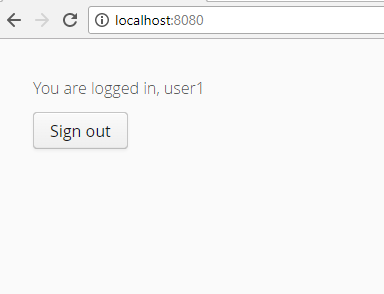
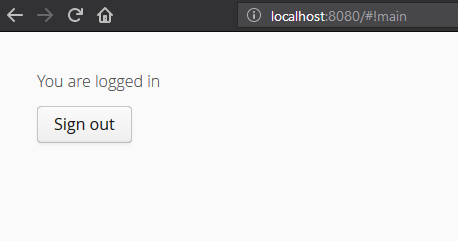
Prepare for merging

Changed region(s): [[0.0, 0.0, 1.0, 0.1452], [0.0625, 0.2614, 0.5312, 0.5519], [0.0938, 0.5809, 0.2812, 0.61]]

diff --git a/src/main/java/org/si/simple_login/vaadin/views/LoginView.java b/src/main/java/org/si/simple_login/vaadin/views/LoginView.java
@@ -11,11 +11,11 @@ import org.springframework.beans.factory.annotation.Autowired;
 import org.springframework.stereotype.Component;
 
 import static org.si.simple_login.vaadin.PagePaths.MAIN;
-import static org.si.simple_login.vaadin.PagePaths.SIGNUP;
+import static org.si.simple_login.vaadin.PagePaths.SIGN_UP;
 import static org.si.simple_login.vaadin.ViewNavigator.navigator;
 
 @Component
-public class LogInView extends CustomComponent implements View {
+public class LoginView extends CustomComponent implements View {
 
     private UserAuthenticationDAO userAuthenticationDAOSQL;
 
@@ -33,12 +33,12 @@ public class LogInView extends CustomComponent implements View {
         this.userAuthenticationDAOSQL = userAuthenticationDAOSQL;
     }
 
-    public LogInView(){
+    public LoginView(){
 
         // Initialize and arrange layout components
         HorizontalLayout signUpLayout = new HorizontalLayout(newUserLabel);
         FormLayout logInFormLayout = new FormLayout(userNameTextField, passwordTextField,
-                signUpLayout, signInButton);
+                                                    signUpLayout, signInButton);
         VerticalLayout logInPageLayout = new VerticalLayout(logInFormLayout);
         logInFormLayout.setSizeUndefined();
         logInPageLayout.setSizeFull();
@@ -51,18 +51,22 @@ public class LogInView extends CustomComponent implements View {
 
         // Set up button and link
         signInButton.setClickShortcut(ShortcutAction.KeyCode.ENTER);
-        signUpLayout.addLayoutClickListener(e -> navigator.navigateTo(SIGNUP.getPagePath()));
+        signUpLayout.addLayoutClickListener(e -> navigator.navigateTo(SIGN_UP.getPagePath()));
 
         setCompositionRoot(logInPageLayout);
     }
 
     /**
-     * If the user has valid credentials, show the (mock) main page; else, show the error message
+     * If the user has valid credentials, show the main page; else, show the error message
      * @param userRequest User object encapsulating the input form data, namely user_name and password
      */
     private void signIn(User userRequest){
 
         if(userAuthenticationDAOSQL.checkAuthentication(userRequest)){
+
+            // Clear the text fields before redirecting
+            userNameTextField.setValue("");
+            passwordTextField.setValue("");
 
             navigator.navigateTo(MAIN.getPagePath());
         } else{

diff --git a/src/main/java/org/si/simple_login/vaadin/ViewNavigator.java b/src/main/java/org/si/simple_login/vaadin/ViewNavigator.java
@@ -9,22 +9,34 @@ import org.springframework.beans.factory.annotation.Autowired;
 
 import static org.si.simple_login.vaadin.PagePaths.LOGIN;
 import static org.si.simple_login.vaadin.PagePaths.MAIN;
-import static org.si.simple_login.vaadin.PagePaths.SIGNUP;
+import static org.si.simple_login.vaadin.PagePaths.SIGN_UP;
+
+/**
+ * The basic UI design of this app and so the related backend functionalities are
+ * based on the Vaadin tutorial by Alejandro Duarte
+ * (https://vaadin.com/blog/implementing-remember-me-with-vaadin). More generally,
+ * my underlying background knowledge of Vaadin apps owes to another tutorial by
+ * the same author (https://vaadin.com/blog/building-a-web-ui-for-mysql-databases-in-plain-java-).
+ * More detailed orientation on the use of Vaadin binders was gained from the tutorial by Kirill Bulatov
+ * (https://vaadin.com/blog/15624687). The page navigation is based on the official
+ * Vaadin documentation (https://vaadin.com/docs/v8/framework/advanced/advanced-navigator.html#advanced.navigator
+ * https://vaadin.com/docs/v8/framework/application/application-architecture.html).
+ */
 
 @SpringUI
 public class ViewNavigator extends UI {
 
     public static SpringNavigator navigator;
-    private final View logInView;
+    private final View loginView;
     private final View signUpView;
     private final View mainView;
 
     @Autowired
-    public ViewNavigator(SpringNavigator navigator, View logInView,
+    public ViewNavigator(SpringNavigator navigator, View loginView,
                          View signUpView, View mainView){
 
         ViewNavigator.navigator = navigator;
-        this.logInView = logInView;
+        this.loginView = loginView;
         this.signUpView = signUpView;
         this.mainView = mainView;
     }
@@ -32,8 +44,8 @@ public class ViewNavigator extends UI {
     public void init(VaadinRequest request){
 
         navigator.init(this, this);
-        navigator.addView(LOGIN.getPagePath(), logInView);
-        navigator.addView(SIGNUP.getPagePath(), signUpView);
+        navigator.addView(LOGIN.getPagePath(), loginView);
+        navigator.addView(SIGN_UP.getPagePath(), signUpView);
         navigator.addView(MAIN.getPagePath(), mainView);
     }
 }

diff --git a/src/main/java/org/si/simple_login/vaadin/views/SignUpView.java b/src/main/java/org/si/simple_login/vaadin/views/SignUpView.java
@@ -46,8 +46,11 @@ public class SignUpView extends CustomComponent implements View {
         userBinder.bind(passwordTextField, User::getPassword, User::setPassword);
         userBinder.setBean(user);
 
-        // Set up button
+        // Set up button and fields
         signUpButton.setClickShortcut(ShortcutAction.KeyCode.ENTER);
+        userNameTextField.setRequiredIndicatorVisible(true);
+        emailTextField.setRequiredIndicatorVisible(true);
+        passwordTextField.setRequiredIndicatorVisible(true);
 
         setCompositionRoot(signUpPageLayout);
     }

diff --git a/src/main/java/org/si/simple_login/vaadin/views/MainView.java b/src/main/java/org/si/simple_login/vaadin/views/MainView.java
@@ -13,7 +13,7 @@ import static org.si.simple_login.vaadin.ViewNavigator.navigator;
 @Component
 public class MainView extends CustomComponent implements View {
 
-    private Label label = new Label("You are logged in.");
+    private Label label = new Label("You are logged in");
     private Button signOut = new Button("Sign out", e -> navigator.navigateTo(LOGIN.getPagePath()));
 
     public MainView(){

diff --git a/src/main/java/org/si/simple_login/config/AuthenticationConfig.java b/src/main/java/org/si/simple_login/config/AuthenticationConfig.java
@@ -56,7 +56,7 @@ public class AuthenticationConfig extends WebSecurityConfigurerAdapter {
     }
 
     /**
-     * Paths are not secured for now as there is only one page, namely login.
+     * TODO: secure the main page
      * @param httpSecurity
      * @throws Exception
      */

diff --git a/src/main/java/org/si/simple_login/vaadin/PagePaths.java b/src/main/java/org/si/simple_login/vaadin/PagePaths.java
@@ -3,7 +3,7 @@ package org.si.simple_login.vaadin;
 public enum PagePaths {
 
     LOGIN(""),
-    SIGNUP("sign_up"),
+    SIGN_UP("sign_up"),
     MAIN("main");
 
     private String pagePath;

diff --git a/README.md b/README.md
@@ -10,7 +10,7 @@
 
 ### Preliminary Remarks
 
-This small application shows password hashing by BCrypt within the framework of Spring Boot.<br>
+This small application shows password hashing by Spring BCrypt within the framework of Spring Boot.<br>
 The design and implementation owe to several tutorials and other sources as acknowledged<br>
 in the references section below. In particular, if you are interested in building a similar<br>
 application by yourself, I would suggest starting with [Alejandro's introductory Vaadin tutorial](https://vaadin.com/blog/building-a-web-ui-for-mysql-databases-in-plain-java-)<br>
@@ -52,6 +52,10 @@ https://vaadin.com/blog/building-a-web-ui-for-mysql-databases-in-plain-java-<br>
 
 For more detailed introduction on Vaadin Binder, Kirill Bulatov's tutorial:<br>
 https://vaadin.com/blog/15624687<br>
+
+For use of page navigation in Vaadin, the official documentation:<br>
+https://vaadin.com/docs/v8/framework/application/application-architecture.html<br>
+https://vaadin.com/docs/v8/framework/advanced/advanced-navigator.html#advanced.navigator<br> 
 
 For Spring configuration of authentication,<br>
 eparvan's post: https://stackoverflow.com/questions/42562893/could-not-autowire-no-beans-of-userdetailservice-type-found<br>
